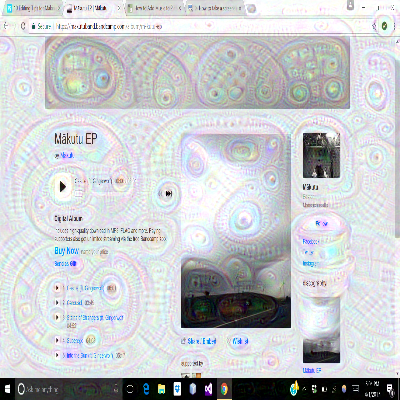
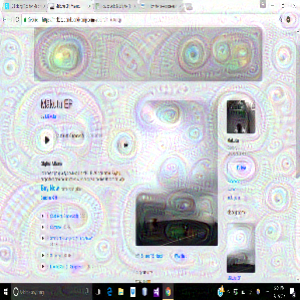
Pushing deep dream

diff --git a/deep_surfer/nets/DeepDream.py b/deep_surfer/nets/DeepDream.py
@@ -147,7 +147,7 @@ class DeepDream:
         print("in octave: %i" % i)
 
     img0 = cv2.imread(file_path) #open image
-    img0 = cv2.resize(img0,(int(400), int(400)))
+    img0 = cv2.resize(img0,(int(300), int(300)))
     img0 = np.float32(img0)
     render_deepdream(tf.square(T(dream_layer)), img0) # Apply gradient ascent to chosen layer
     print("the deep dream has ended. navigate back to the main window!")
